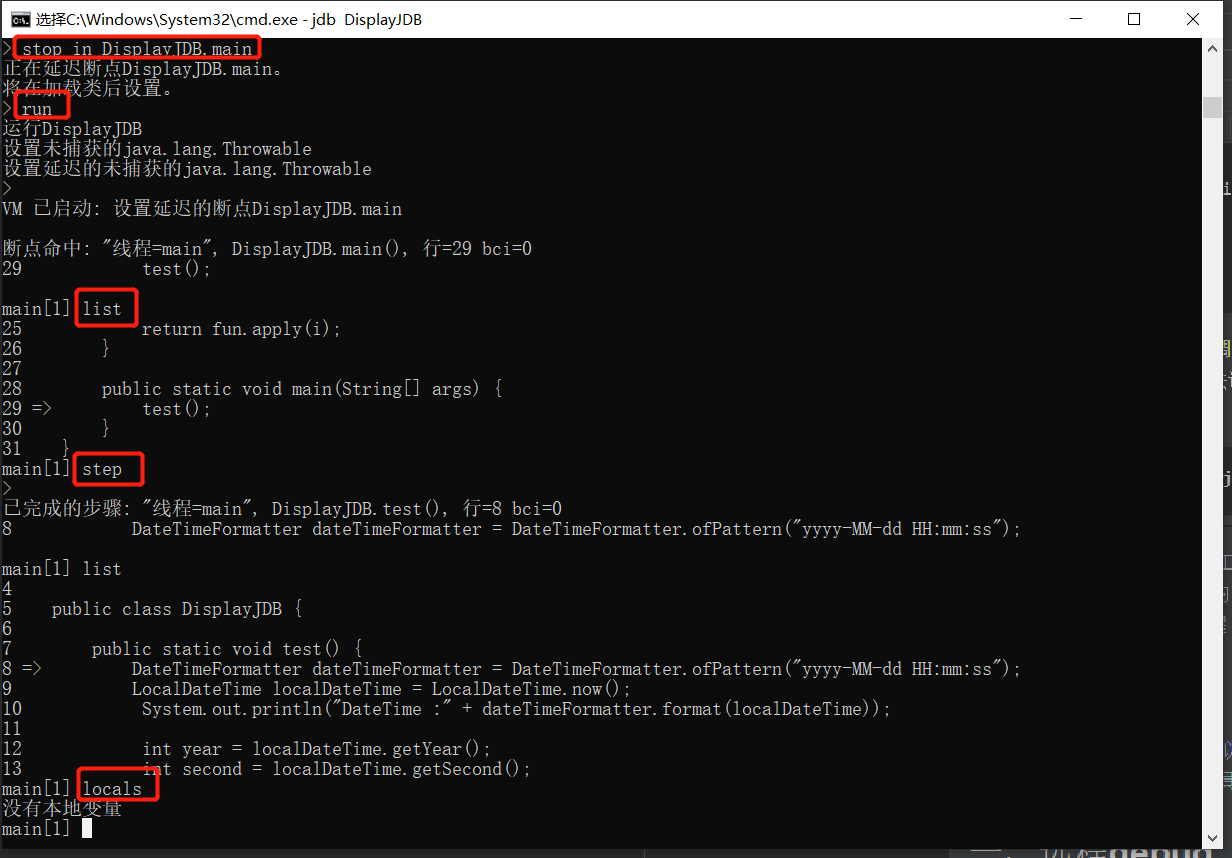
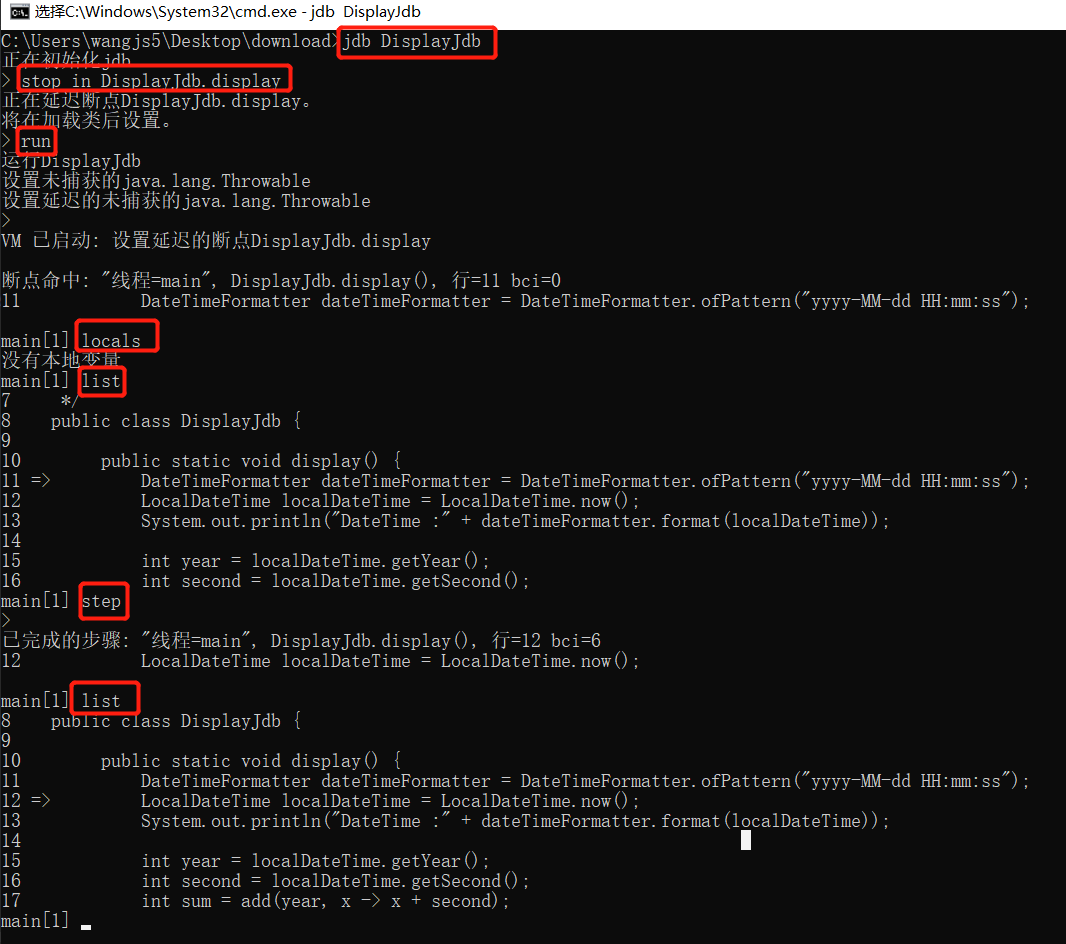
update

Changed region(s): [[0.0, 0.0, 1.0, 1.0]]

diff --git a/_posts/2019/2019-09-16-debug.md b/_posts/2019/2019-09-16-debug.md
@@ -32,18 +32,19 @@ jstat |	记录虚拟机运行的状态，监控性能
 jconsole |	虚拟机性能/状态检查可视化工具
 
 
-### DisplayJDB.java
+### DisplayJdb.java
 
 ```
-package com.laughitover.example.debug;
-
 import java.time.LocalDateTime;
 import java.time.format.DateTimeFormatter;
 import java.util.function.Function;
 
-public class DisplayJDB {
+/**
+ * @author laughitover
+ */
+public class DisplayJdb {
 
-    public static void test() {
+    public static void display() {
         DateTimeFormatter dateTimeFormatter = DateTimeFormatter.ofPattern("yyyy-MM-dd HH:mm:ss");
         LocalDateTime localDateTime = LocalDateTime.now();
         System.out.println("DateTime :" + dateTimeFormatter.format(localDateTime));
@@ -65,45 +66,51 @@ public class DisplayJDB {
     }
 
     public static void main(String[] args) {
-        test();
+        display();
     }
 }
 ```
 
-### 1. 使用如下命令对DisplayJDB.java文件进行编译，
+### 1. 使用如下命令对DisplayJdb.java文件进行编译，
 其中，-g参数是为了产生各种调试信息，一定要加上，否则无法调试。-d . 是编译到当前目录下
 
 ```
-javac -g -d . DisplayJDB.java
+javac -g -d . DisplayJdb.java
 ```
 
-### 2. 执行命令```jdb DisplayJDB```开始调试程序，我们可以用```help```先看看jdb都有哪些调试命令，如下图：
+### 2. 执行命令```jdb DisplayJdb```开始调试程序，我们可以用```help```先看看jdb都有哪些调试命令，如下图：
 
 ![在这里插入图片描述](http://www.laughitover.com/assets/images/2019/debug/21.png)
 
 ### 3. 开始调试
-- stop in DisplayJDB.main 把断点设在main函数上
+- stop in DisplayJdb.display 把断点设在display函数上
 - run 开始运行程序，
+- locals 查看本地变量，(可以看到当前没有本地变量,因为程序才刚开始执行)
 - list 查看运行到了源代码的什么位置，
 - step 单步执行程序，
-- locals 查看本地变量，(可以看到当前没有本地变量,因为程序才刚开始执行)
+
 
 ![在这里插入图片描述](http://www.laughitover.com/assets/images/2019/debug/22.png)
 
-### 4. 方法执行
-单步执行太慢了，可以使用 ```stop at DisplayJDB:14```在14行处下个断点，
-然后使用```cont```执行到下一断点处，继续执行进入到add方法,add执行结束后回到test方法。
-
+### 4. 加快执行
+单步执行太慢了，可以使用 ```stop at DisplayJdb:17```在17行处下个断点，
+然后使用```cont```执行到下一断点处，使用```stop``` 命令可以查看当前断点情况
 ![在这里插入图片描述](http://www.laughitover.com/assets/images/2019/debug/23.png)
+
+
+
+### 5. 方法执行
+接下来是add方法，可以使用```step```一步一步执行并且会进入方法体,也可以使用```next```命令把方法执行完。
+
 ![在这里插入图片描述](http://www.laughitover.com/assets/images/2019/debug/24.png)
 
-### 5. 加快执行
-接下来是一个for循环，```stop``` 查看当前断点情况，在21行新下一个断点，然后使用```cont```执行，
-使用locals可以查看当前本地变量，最后使用exit命令退出
+### 6. 退出
+
+接下来是一个for循环，可以使用 ```cont```执行结束自动推出，
+也可以使用 ```exit``` 或 ```quit```命令退出
 ![在这里插入图片描述](http://www.laughitover.com/assets/images/2019/debug/25.png)
 
 > cont是continue的缩写，功能是运行到下一个断点处停止。
-next会把方法执行完，step会进入方法体。
 
 ## 二、远程调试
 借助Idea可以很方便的进行远程debug，
